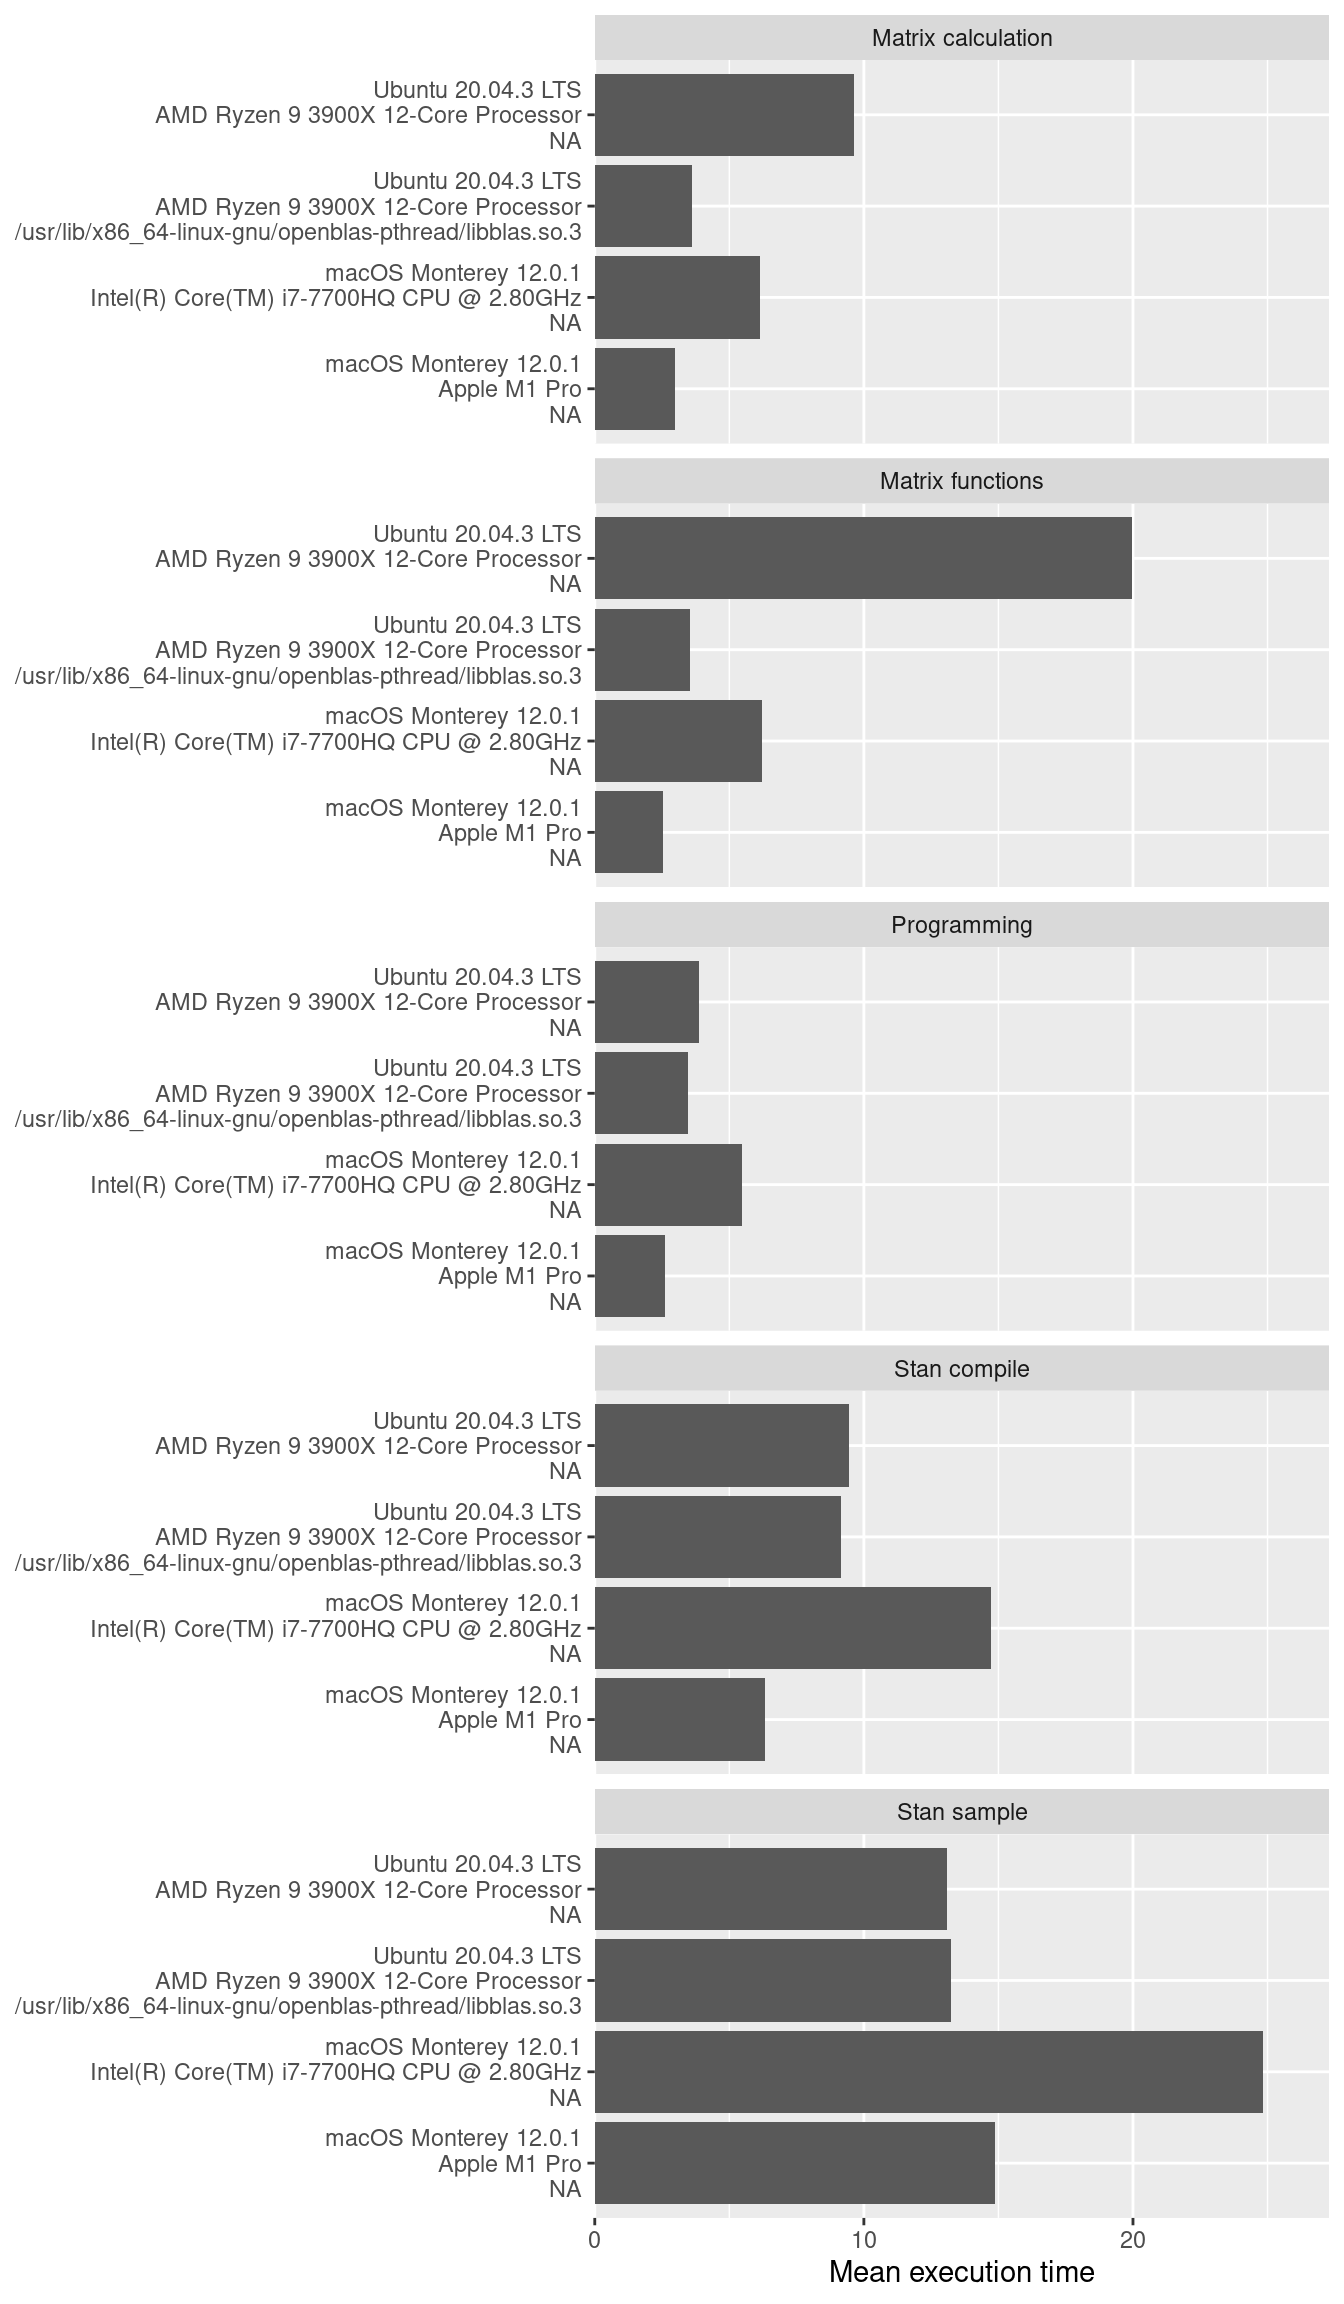
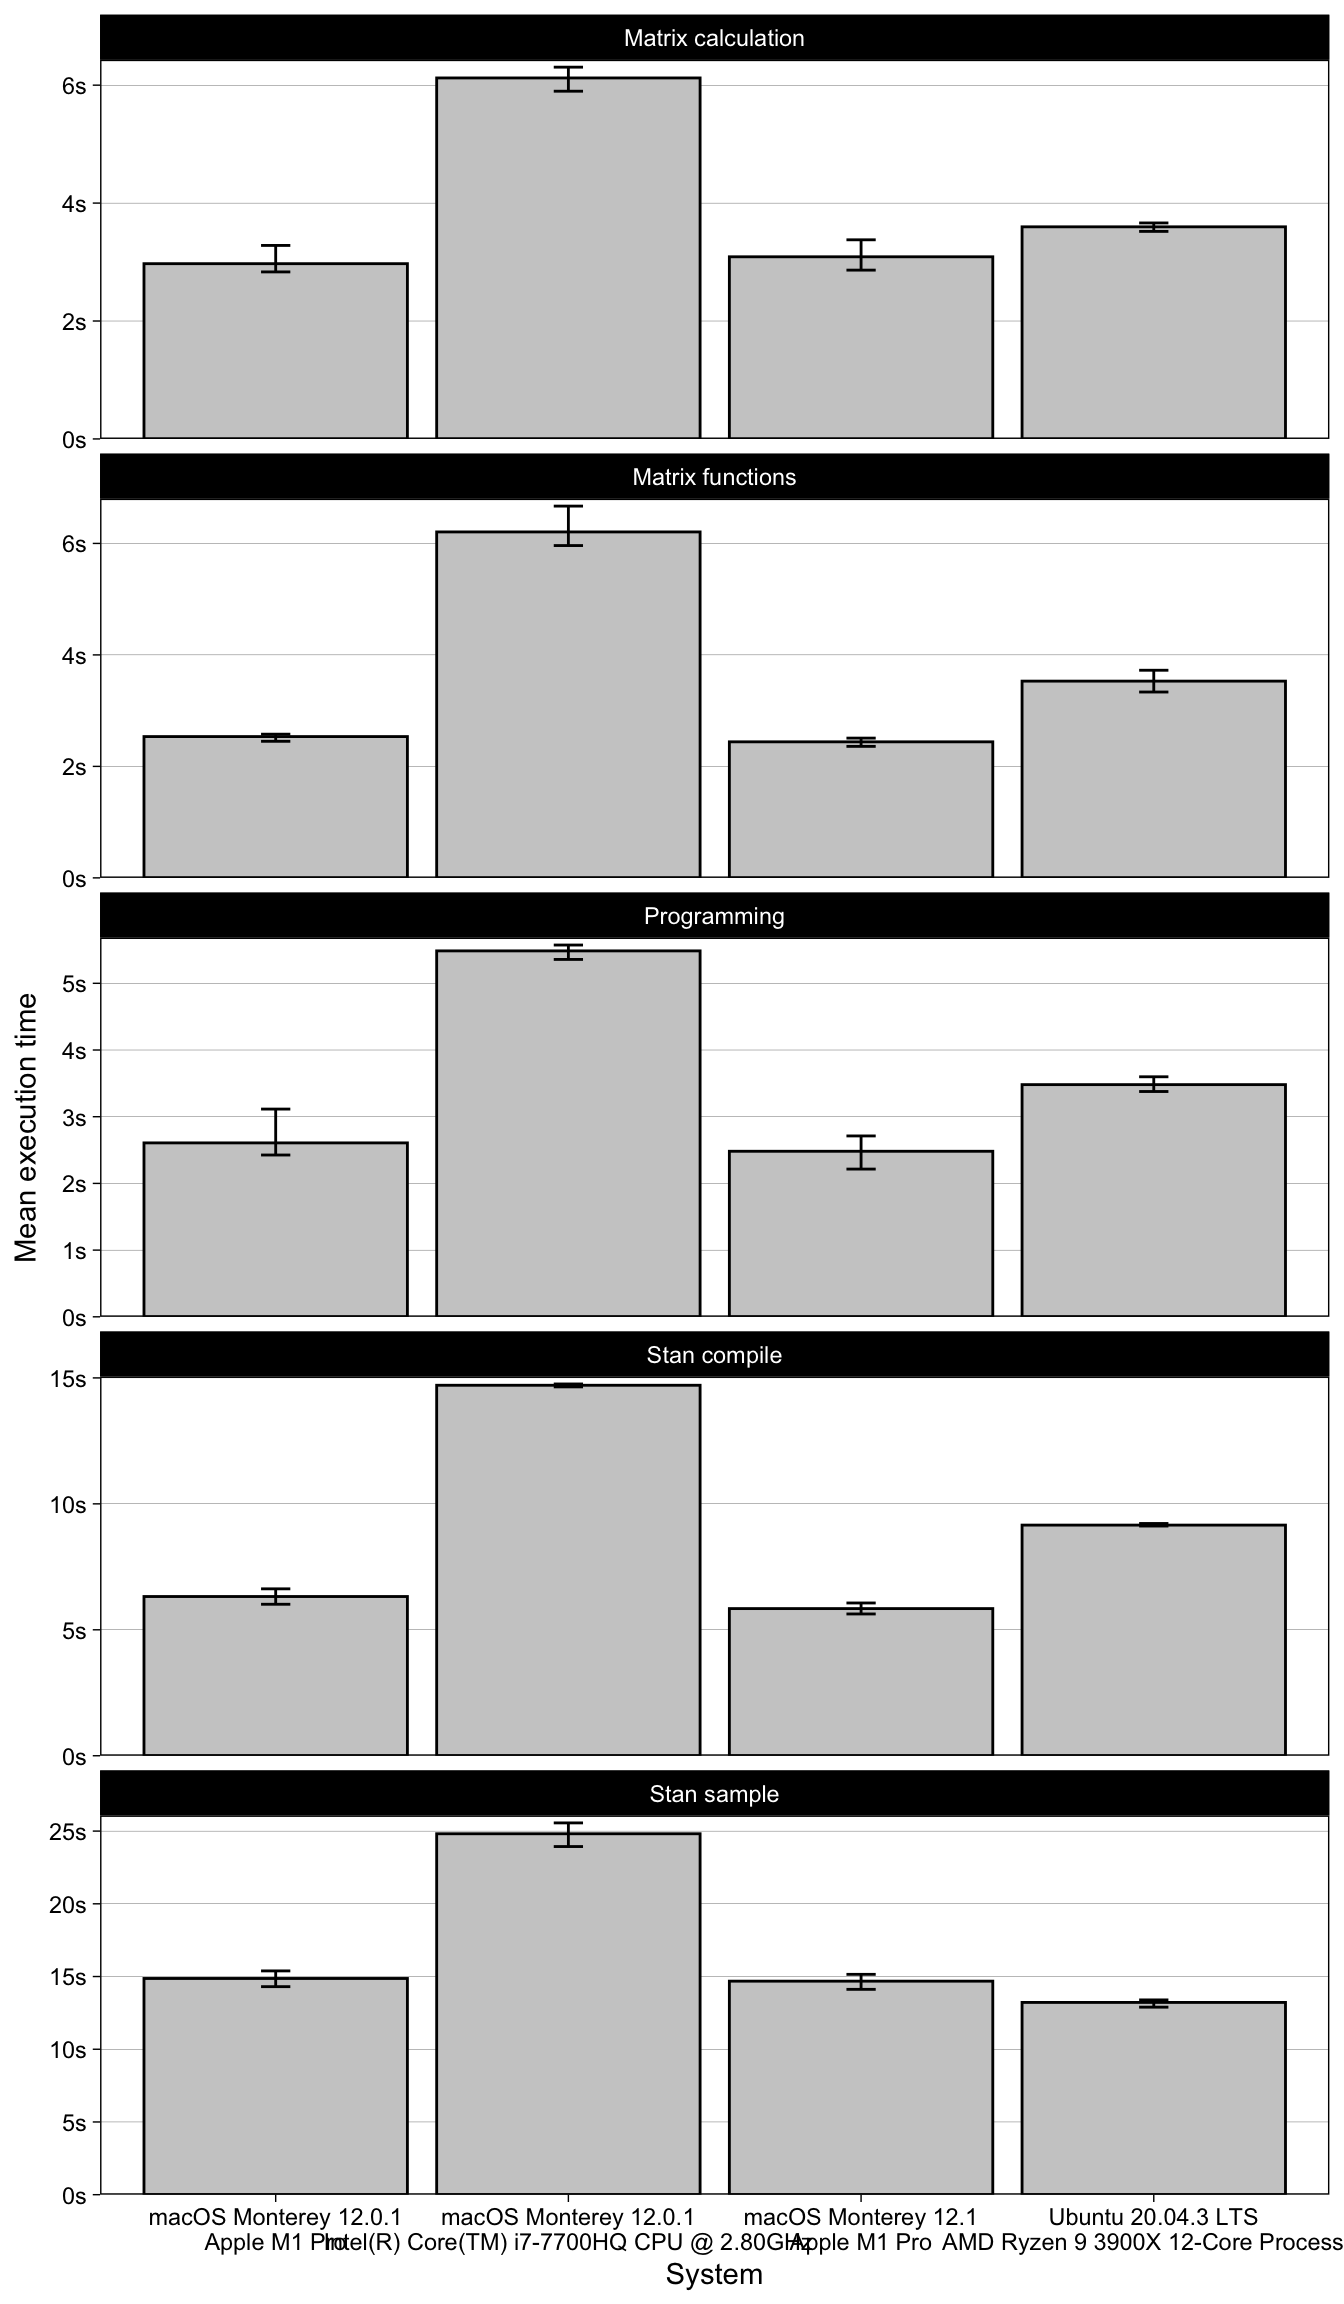
Update README

diff --git a/README.md b/README.md
@@ -3,13 +3,20 @@ Results
 Matti
 26/11/2021
 
+Where possible these systems use optimised blas/lapack.
+
 ``` r
 d %>% 
-  ggplot(aes(mean, paste(os, cpu, blas, sep = "\n"))) +
-  scale_x_continuous("Mean execution time", expand = expansion(c(0, .1))) +
-  geom_col() +
-  facet_wrap("expr", ncol = 1) +
-  theme(axis.title.y = element_blank())
+  ggplot(aes(paste(os, cpu, sep = "\n"), mean)) +
+  scale_y_continuous(
+    "Mean execution time", 
+    expand = expansion(c(0, .02)),
+    labels = ~str_glue("{.}s")
+  ) +
+  scale_x_discrete("System") +
+  geom_col(fill = "gray80", col = "black") +
+  geom_errorbar(aes(ymin = min, ymax = max), width = .1) +
+  facet_wrap("expr", ncol = 1, scales = "free_y")
 ```
 
 <img src="README_files/figure-gfm/results-columns-1.png" width="672" />
